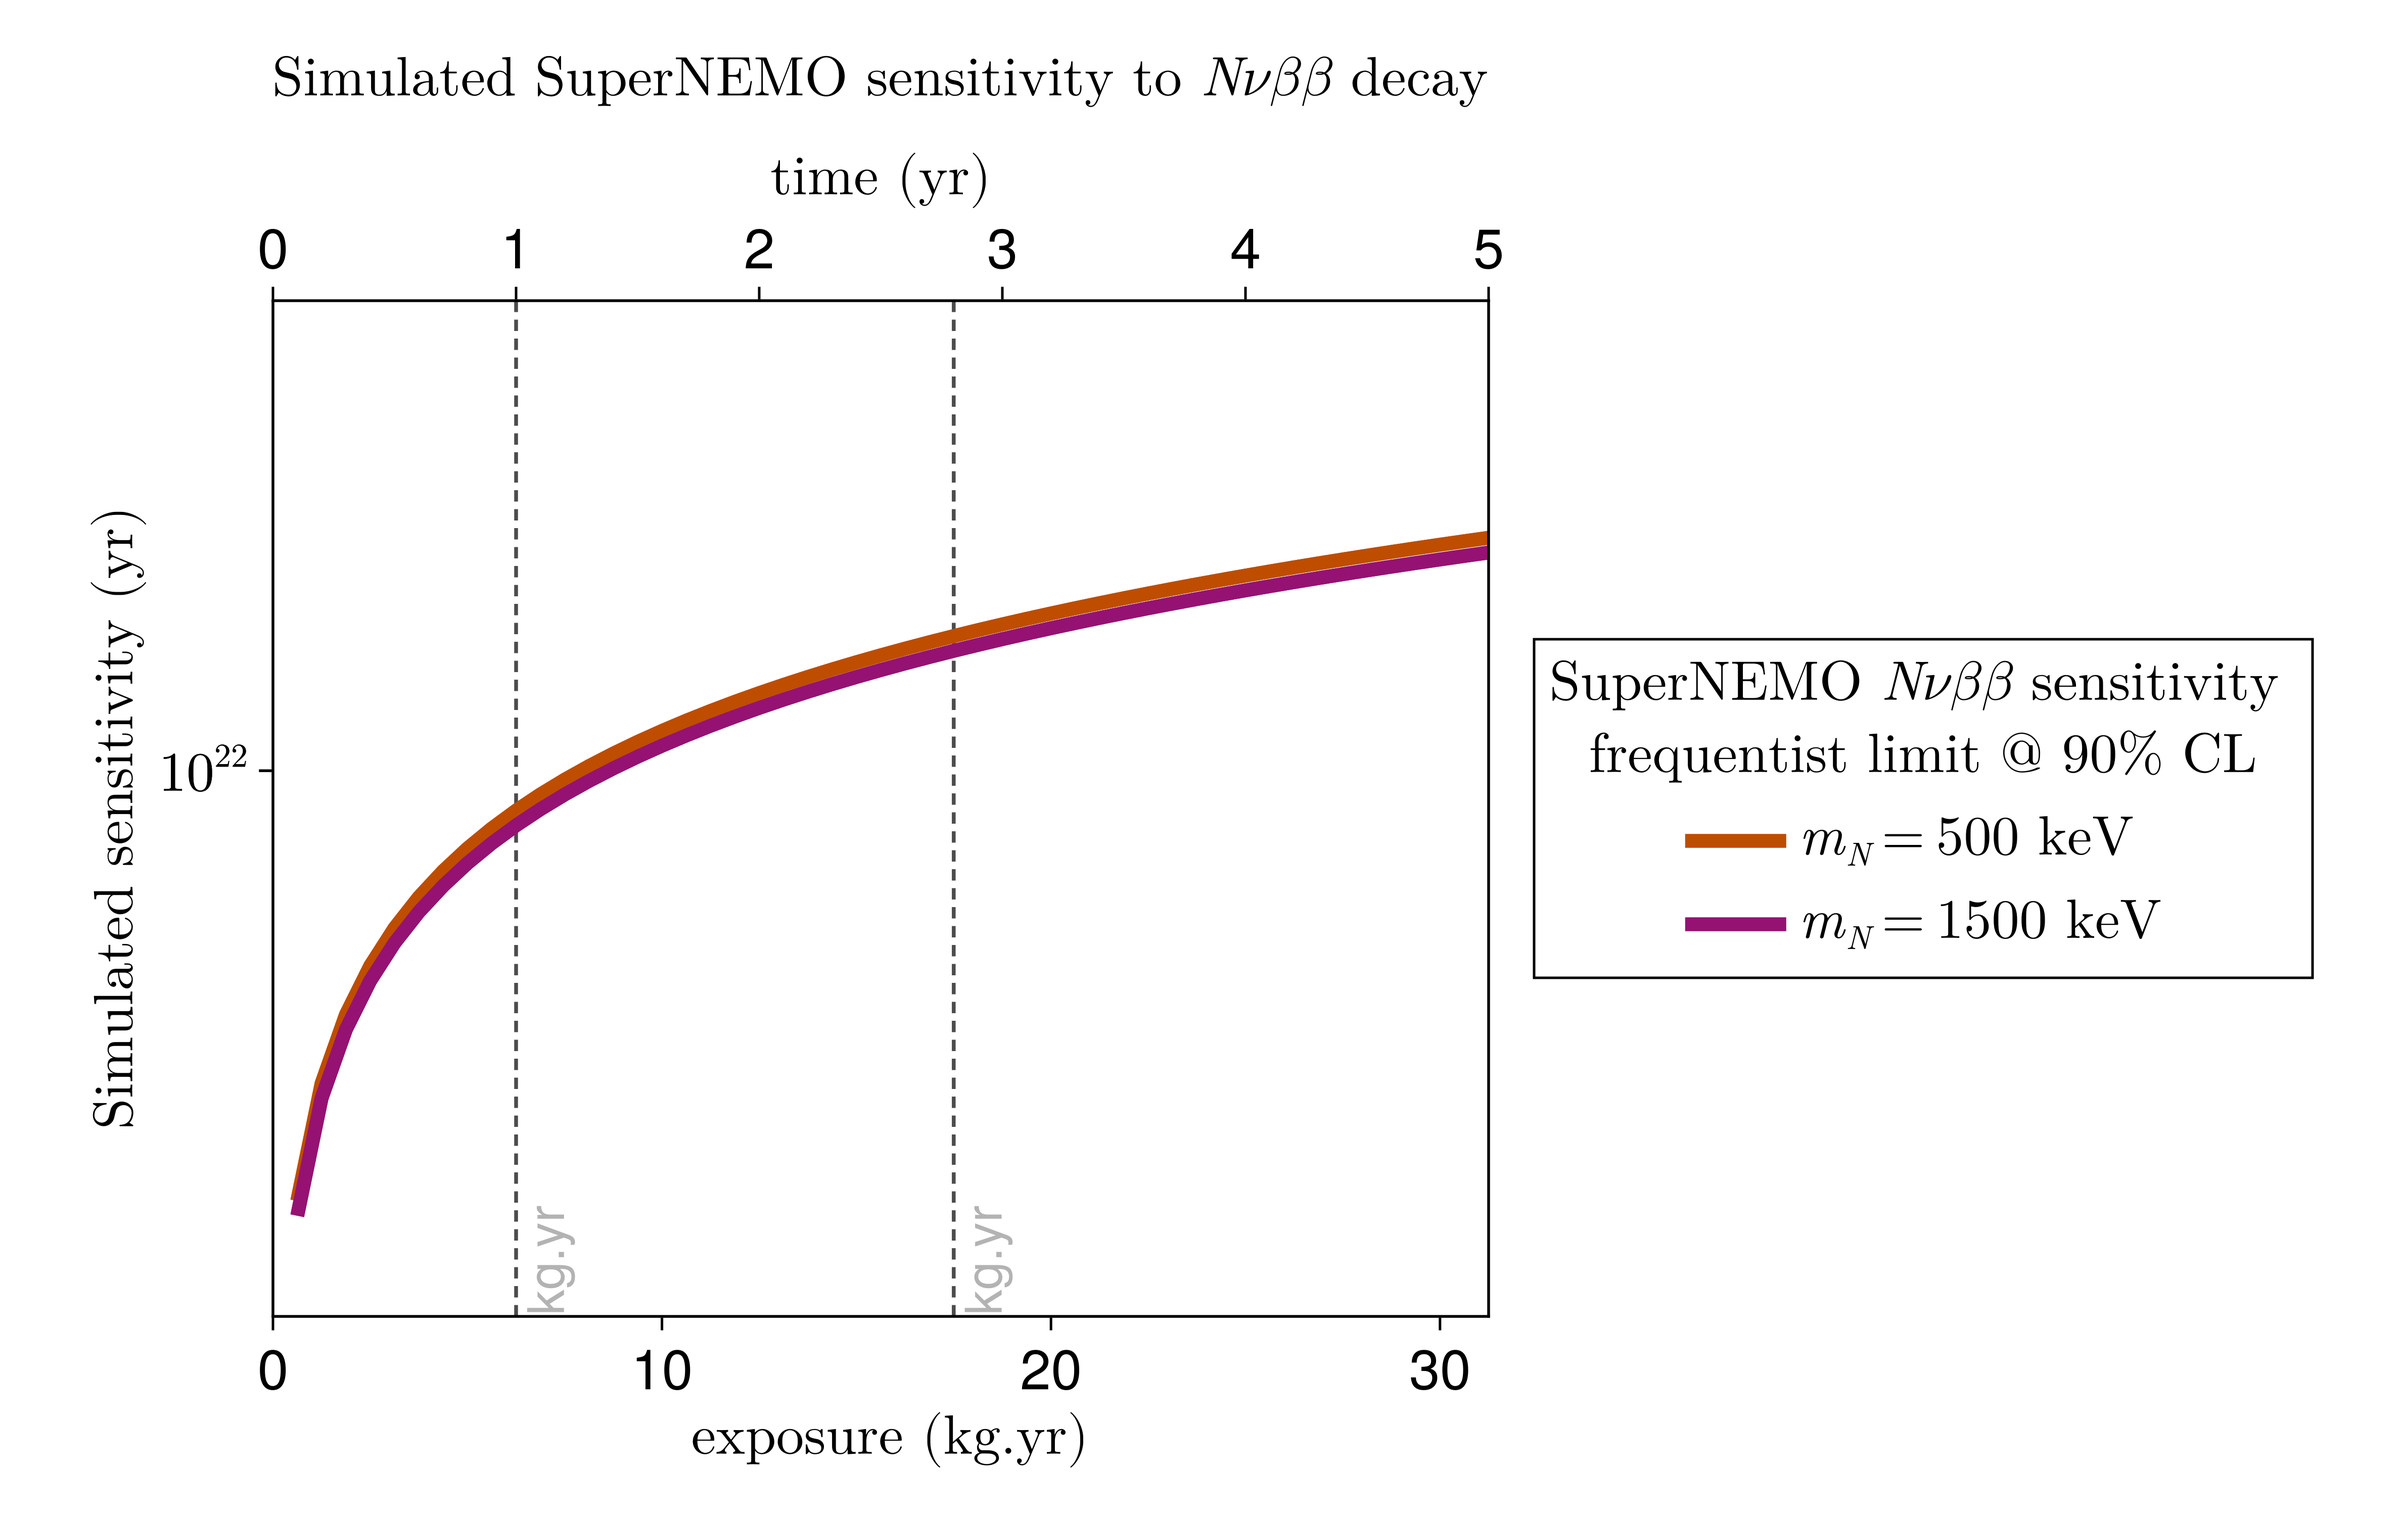
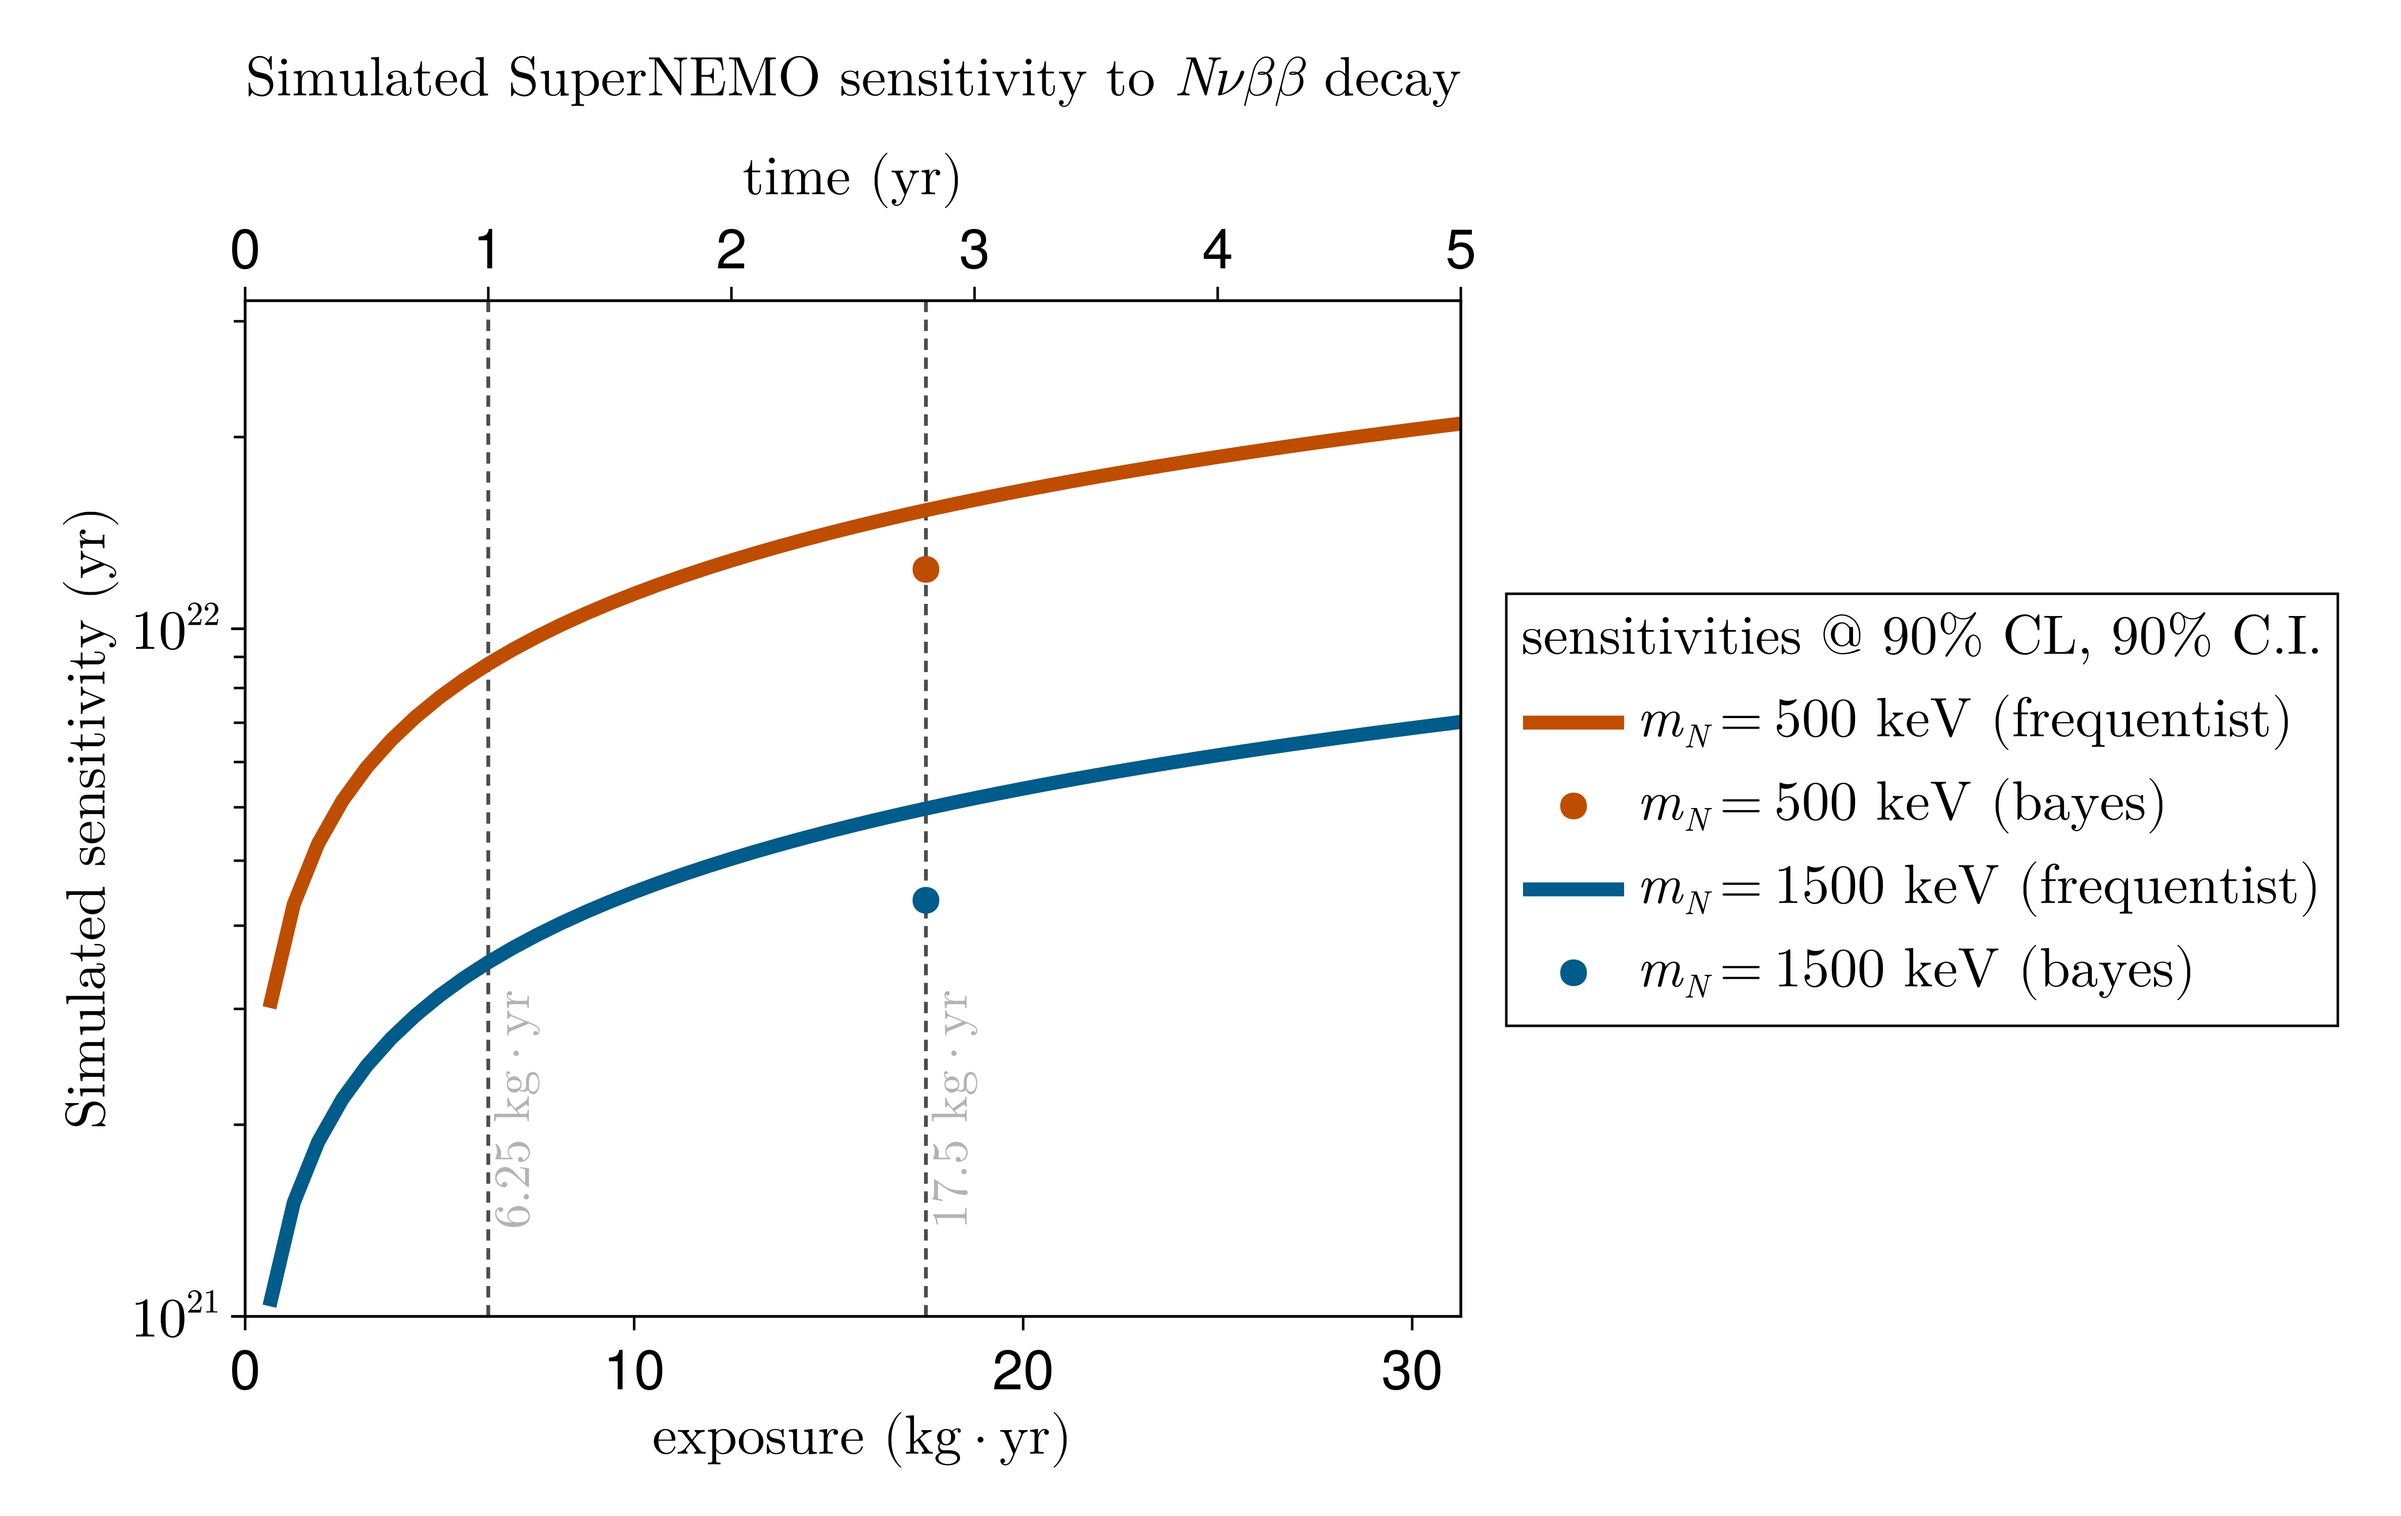
updates results and stuff

diff --git a/scripts/phd_final/07_sensitivity/sensitivity_bayes/results_summary.tex b/scripts/phd_final/07_sensitivity/sensitivity_bayes/results_summary.tex
@@ -5,5 +5,7 @@
   $0\nu\beta\beta$ & 2\,$m$Bq/m$^3$ & 3.16956e24 \\
   $0\nu\beta\beta M1$ & 150\,$\mu$Bq/m$^3$ & 2.33663e23 \\
   $0\nu\beta\beta M2$ & 150\,$\mu$Bq/m$^3$ & 9.95743e22 \\
-  $\nu_R\nu_L\beta\beta \, (K=0.5)$ & 150\,$\mu$Bq/m$^3$ & 7.87119e20 \\\hline
+  $\nu_R\nu_L\beta\beta \, (K=0.5)$ & 150\,$\mu$Bq/m$^3$ & 7.87119e20 \\
+  $N\nu\beta\beta \, (m_N=1500~\text{keV})$ & 150\,$\mu$Bq/m$^3$ & 1.02154e21 \\
+  $N\nu\beta\beta \, (m_N=500~\text{keV})$ & 150\,$\mu$Bq/m$^3$ & 1.4292e21 \\\hline
 \end{tabular}

diff --git a/scripts/phd_final/07_sensitivity/sensitivity_nd/nd_results_30-01-2026.md b/scripts/phd_final/07_sensitivity/sensitivity_nd/nd_results_30-01-2026.md
@@ -166,16 +166,16 @@ best ROI:
   lPext : (0.5, 50.0)
 
 # bayes
-| **Process**                         | **Radon level**    | **Median sensitivity (yr)** |
-|------------------------------------:|-------------------:|----------------------------:|
-| $0\nu\beta\beta$                    | 150\,$\mu$Bq/m$^3$ | 4.67198e24                  |
-| $0\nu\beta\beta$                    | 2\,$m$Bq/m$^3$     | 3.16956e24                  |
-| $0\nu\beta\beta M1$                 | 150\,$\mu$Bq/m$^3$ | 2.33663e23                  |
-| $0\nu\beta\beta M2$                 | 150\,$\mu$Bq/m$^3$ | 9.95743e22                  |
-| $\nu\_R\nu\_L\beta\beta \, (K=0.5)$ | 150\,$\mu$Bq/m$^3$ | 7.87119e20                  |
 
-
-
+| **Process**                                 | **Radon level**    | **Median sensitivity (yr)** |
+|--------------------------------------------:|-------------------:|----------------------------:|
+| $0\nu\beta\beta$                            | 150\,$\mu$Bq/m$^3$ | 4.67198e24                  |
+| $0\nu\beta\beta$                            | 2\,$m$Bq/m$^3$     | 3.16956e24                  |
+| $0\nu\beta\beta M1$                         | 150\,$\mu$Bq/m$^3$ | 2.33663e23                  |
+| $0\nu\beta\beta M2$                         | 150\,$\mu$Bq/m$^3$ | 9.95743e22                  |
+| $\nu\_R\nu\_L\beta\beta \, (K=0.5)$         | 150\,$\mu$Bq/m$^3$ | 6.27e22                     |
+| $N\nu\beta\beta \, (m\_N=1500\~\text{keV})$ | 150\,$\mu$Bq/m$^3$ | 1.389e22                    |
+| $N\nu\beta\beta \, (m\_N=500\~\text{keV})$  | 150\,$\mu$Bq/m$^3$ | 4.028e21                   |
 
 # experimental
 

diff --git a/scripts/phd_final/07_sensitivity/sensitivity_bayes/results_summary.md b/scripts/phd_final/07_sensitivity/sensitivity_bayes/results_summary.md
@@ -1,7 +1,9 @@
-| **Process**                         | **Radon level**    | **Median sensitivity (yr)** |
-|------------------------------------:|-------------------:|----------------------------:|
-| $0\nu\beta\beta$                    | 150\,$\mu$Bq/m$^3$ | 4.67198e24                  |
-| $0\nu\beta\beta$                    | 2\,$m$Bq/m$^3$     | 3.16956e24                  |
-| $0\nu\beta\beta M1$                 | 150\,$\mu$Bq/m$^3$ | 2.33663e23                  |
-| $0\nu\beta\beta M2$                 | 150\,$\mu$Bq/m$^3$ | 9.95743e22                  |
-| $\nu\_R\nu\_L\beta\beta \, (K=0.5)$ | 150\,$\mu$Bq/m$^3$ | 7.87119e20                  |
+| **Process**                                 | **Radon level**    | **Median sensitivity (yr)** |
+|--------------------------------------------:|-------------------:|----------------------------:|
+| $0\nu\beta\beta$                            | 150\,$\mu$Bq/m$^3$ | 4.67198e24                  |
+| $0\nu\beta\beta$                            | 2\,$m$Bq/m$^3$     | 3.16956e24                  |
+| $0\nu\beta\beta M1$                         | 150\,$\mu$Bq/m$^3$ | 2.33663e23                  |
+| $0\nu\beta\beta M2$                         | 150\,$\mu$Bq/m$^3$ | 9.95743e22                  |
+| $\nu\_R\nu\_L\beta\beta \, (K=0.5)$         | 150\,$\mu$Bq/m$^3$ | 7.87119e20                  |
+| $N\nu\beta\beta \, (m\_N=1500\~\text{keV})$ | 150\,$\mu$Bq/m$^3$ | 1.02154e21                  |
+| $N\nu\beta\beta \, (m\_N=500\~\text{keV})$  | 150\,$\mu$Bq/m$^3$ | 1.4292e21                   |
